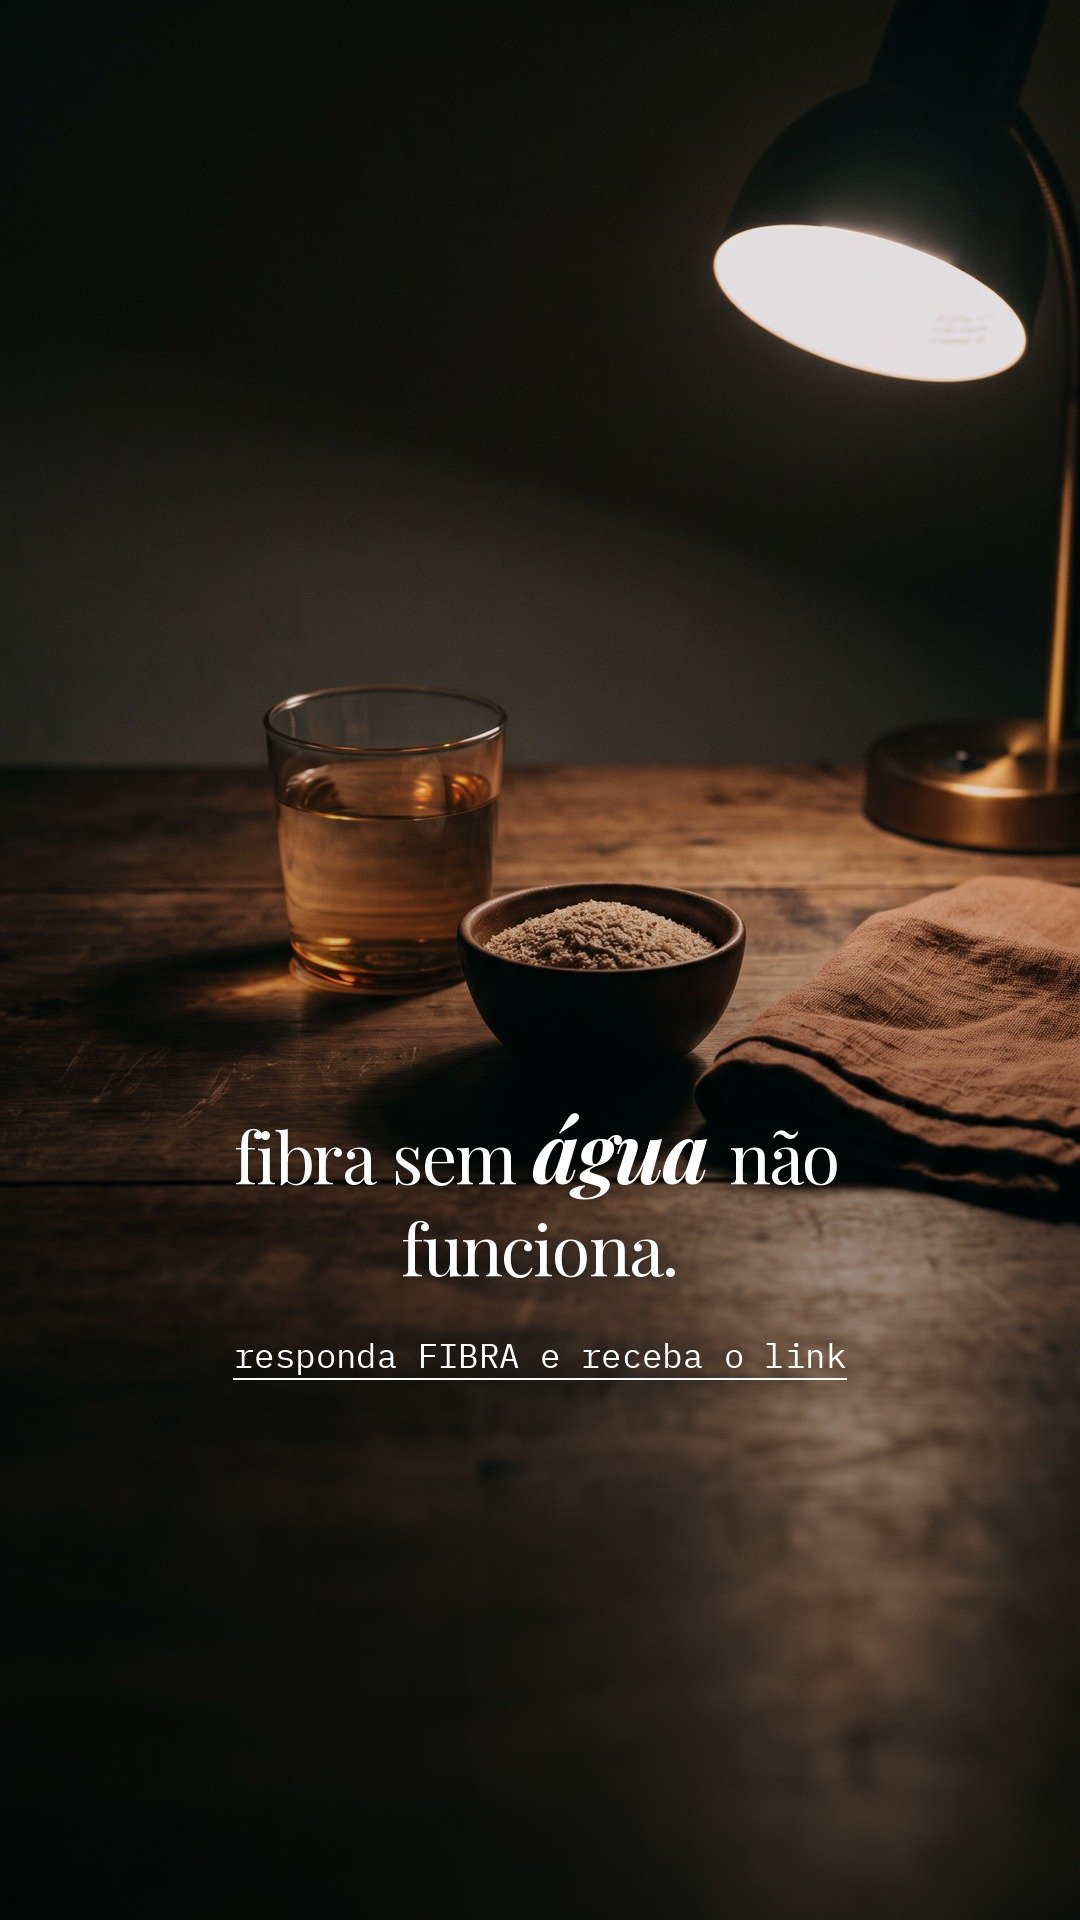
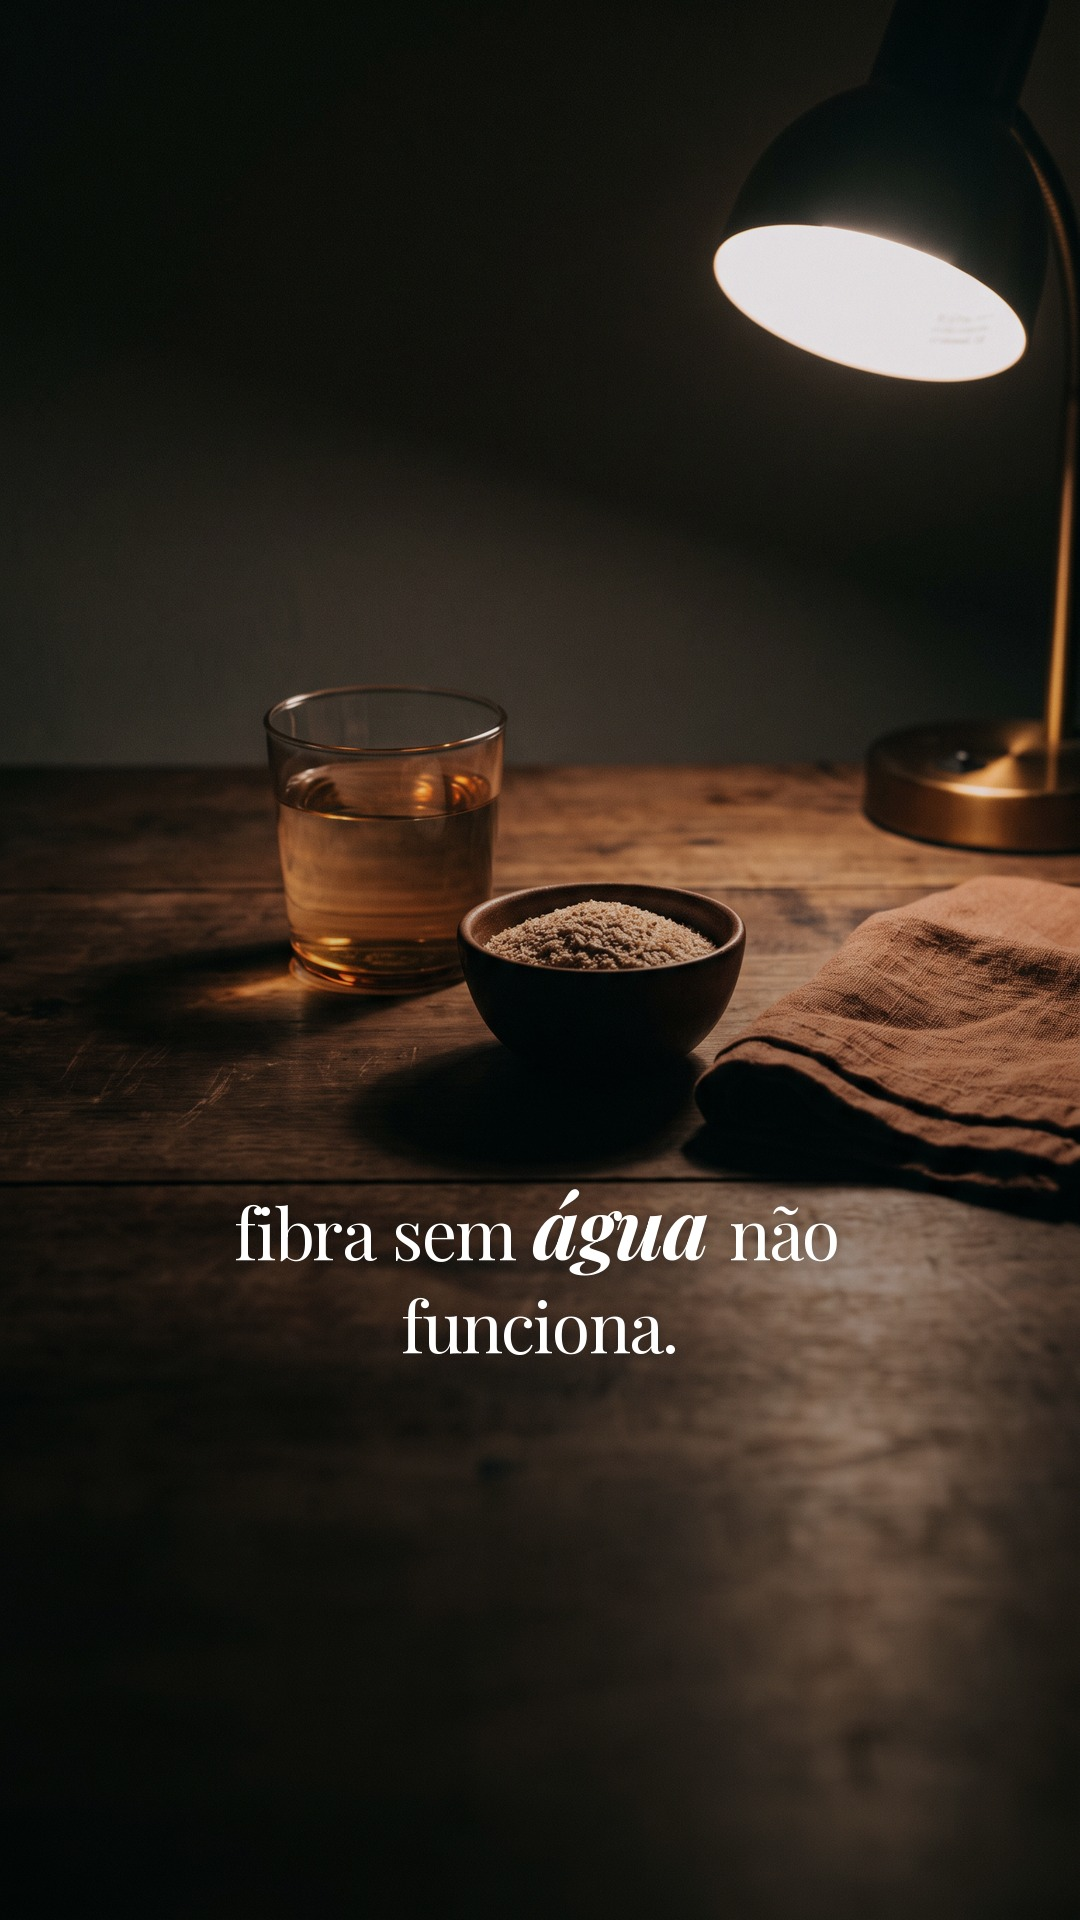
Um produto com link por dia, pódio e campeã no sábado, palavras breves
- banco: trocas sáb/dom (14/15, 21/22, 28/29) e 1 palavra-chave por dia
- artes 13-20/11 sem chamada fora do produto do dia; SAW no saw palmetto
- LISTA, BRIEFING e doc 13 com as regras

Claude-Session: https://claude.ai/code/session_01Bm6rABw341qEUcQn2o9EUx

Changed region(s): [[0.2139, 0.5938, 0.7944, 0.7188], [0.6722, 0.6875, 0.7944, 0.7188]]

diff --git a/grade/pacotes/2026-11-13a20/render.py b/grade/pacotes/2026-11-13a20/render.py
@@ -5,7 +5,9 @@ from pathlib import Path
 S = sys.argv[1]; G = Path(__file__).resolve().parents[2]; P = Path(__file__).resolve().parent
 CN, AA, PD = G/"campanha-nov", G/"ativos-animados", G/"podio"
 run = lambda *a: subprocess.run(["python3", "-I", *map(str, a)], check=True, cwd=CN)
-c = lambda k: f"responda {k} e receba o link"
+# 1 produto com link por dia (decisão de 12/11/2026); os outros stories saem sem chamada
+DIA = {"CAFE", "B12", "CANELA", "MAGNESIO", "VITC", "SAW", "MOROSIL", "LICOPENO"}
+c = lambda k: f"responda {k} e receba o link" if k in DIA else ""
 D13 = CN/"dia13"; F = f"{S}/fotos1420"
 A = {(a["data"], a["hora"]): a for a in json.load(open(CN/"stories_14a30_v2.json"))}
 nome = lambda d, h, t: P/f"{d[8:]}-11_{h.replace(':', 'h')}_{t}.jpg"
@@ -17,11 +19,12 @@ for (d, h), (t, f, y, k) in {("2026-11-14", "12:30"): ("canela", "canela", "", "
         ("2026-11-16", "12:30"): ("caibra-magnesio", "caibra", "", "MAGNESIO"), ("2026-11-18", "12:30"): ("hibisco", "hibisco", "0.70", "HIBISCO"),
         ("2026-11-19", "12:30"): ("maca", "maca", "", "MACA"), ("2026-11-20", "09:00"): ("licopeno", "licopeno", "", "LICOPENO")}.items():
     run("arte.py", f"{F}/{f}.png", "story", nome(d, h, t), A[(d, h)]["legenda"], y, c(k))
+    # (a canela foi para dom 15/11 11:00: o arquivo é renomeado abaixo)
 run("modelos.py", "F", "story", P/"17-11_16h00_vitamina-c.jpg", "vitamina C: mais nem sempre é *melhor*.", "VITAMINA C", "", c("VITC"))
 for d, h, t, k in [("2026-11-15", "12:30", "berberina", "BERBERINA"), ("2026-11-15", "16:00", "probioticos", "PROBIOTICO"), ("2026-11-16", "16:00", "colageno", "COLAGENO"),
-                   ("2026-11-18", "09:00", "saw-palmetto", "PALMETTO"), ("2026-11-18", "16:00", "zinco-cabelo", "ZINCO"), ("2026-11-20", "12:30", "kic", "KIC"), ("2026-11-20", "16:00", "vitamina-b12", "B12")]:
+                   ("2026-11-18", "09:00", "saw-palmetto", "SAW"), ("2026-11-18", "16:00", "zinco-cabelo", "ZINCO"), ("2026-11-20", "12:30", "kic", "KIC"), ("2026-11-20", "16:00", "vitamina-b12", "")]:
     a = A[(d, h)]; run("modelos.py", a["modelo"], "story", nome(d, h, t), a["legenda"], a.get("rotulo", ""), "", c(k))
-run("modelos.py", "F", "story", P/"15-11_11h00_campea-podio-b12.jpg", "a campeã do pódio tem nome: vitamina *B12*.", "PÓDIO · NUTRACÊUTICOS", "", c("B12"))
+run("modelos.py", "F", "story", P/"14-11_12h30_campea-podio-b12.jpg", "a campeã do pódio tem nome: vitamina *B12*.", "PÓDIO · NUTRACÊUTICOS", "", c("B12"))
 for v, saida, fr, rot, k in [("morosil2", "morosil", "a laranja que *sangra* vermelho tem nome: moro.", "MOROSIL", "MOROSIL"),
                              ("elibria-runway", "elibria", "o *calor* que começa por dentro.", "ELIBRIA", ""),
                              ("treonato-runway", "magnesio-treonato", "o magnésio que chega ao *cérebro*.", "MAGNÉSIO TREONATO", "")]:
@@ -32,4 +35,5 @@ for s, cat, n, q in [("podio-nutraceuticos", "Nutracêuticos", ["vitamina B12", 
                      ("podio-pele-beleza", "Pele e beleza", ["niacinamida", "Clonapure", "ácido hialurônico"], ["10,0", "6,4", "5,5"])]:
     subprocess.run(["python3", "-I", "podio_video.py", f"{s}.mp4", cat, *n, *q], check=True, cwd=PD)
 shutil.copy(PD/"podio-nutraceuticos.mp4", P/"14-11_11h00_podio-nutraceuticos.mp4")
+shutil.move(P/"14-11_12h30_canela.jpg", P/"15-11_11h00_canela.jpg")
 print("ok")

diff --git a/grade/pacotes/2026-11-13a20/LISTA.md b/grade/pacotes/2026-11-13a20/LISTA.md
@@ -1,36 +1,29 @@
-# Pacote 13 a 20/11/2026 · stories com palavra-chave (ManyChat)
+# Pacote 13 a 20/11/2026 · stories (produto do dia + ManyChat)
 
-**Mudou em 12/11/2026:** não há mais adesivo de link nem agendamento à mão no Business Suite para as imagens.
-- A arte pede "responda PALAVRA e receba o link". Quem responde o story recebe o link por direct pelo **ManyChat**, que consulta `ig_link_por_palavra` no Supabase (só responde para blocos aprovados ou publicados).
-- **Palavra-chave breve, sem acento nem caractere especial** (ex.: CAFE, VITC), para facilitar a digitação. A busca também aceita com acento.
-- **Story sem logo** (decisão do Ricardo, 12/11): o Instagram já mostra a foto e @medicinalnaweb no topo. Feed continua com logo. Texto acima da barra de resposta.
-- **Imagens** saem pela automação da Grade quando o Ricardo aprova o bloco. **Vídeos** ainda são agendados à mão (a automação publica só imagem).
-- Artes e vídeos: arquivos desta pasta (prefixo `nov2026-v4-` no Supabase). Para refazer: `python3 -I render.py <pasta com fotos1420 e vídeos do Runway>`.
-- Configuração do ManyChat: `docs/13-portal-instagram.md`, seção "Link por direct (ManyChat)".
+**Regras (Ricardo, 12/11/2026)**
+- **1 produto com link por dia.** Só o story do produto do dia leva "responda PALAVRA e receba o link"; os outros 3 saem sem chamada, como conteúdo.
+- **Pódio sempre no sábado:** vídeo às 11:00 + campeã (produto do dia) às 12:30.
+- **Palavra-chave breve, sem acento nem caractere especial** (CAFE, VITC, SAW). A busca também aceita com acento.
+- **Story sem logo**: o Instagram já mostra @medicinalnaweb no topo. Feed continua com logo. Texto acima da barra de resposta.
+- O link vai por direct pelo **ManyChat** (`ig_link_por_palavra`, só blocos aprovados ou publicados), sempre para a **página do produto**, com UTM.
+- **Imagens** saem pela automação da Grade quando o Ricardo aprova. **Vídeos** ainda são agendados à mão.
+- Refazer as artes: `python3 -I render.py <pasta com fotos1420 e vídeos do Runway>`.
 
-| Data | Hora | Tipo | Story | Palavra-chave |
-|---|---|---|---|---|
-| 13/11 | 09:00 | imagem | Magnésio treonato | TREONATO ⛔ em espera (Anvisa) |
-| 13/11 | 12:30 | imagem | Café proteico | CAFE ✅ aprovado |
-| 13/11 | 16:00 | imagem | Biotina | BIOTINA |
-| 13/11 | 20:00 | imagem | Psyllium | FIBRA |
-| 14/11 | 11:00 | vídeo | Pódio · nutracêuticos | — |
-| 14/11 | 12:30 | imagem | Canela | CANELA |
-| 15/11 | 09:00 | imagem | Picolinato de cromo | CROMO |
-| 15/11 | 11:00 | imagem | Campeã do pódio · B12 | B12 |
-| 15/11 | 12:30 | imagem | Berberina | BERBERINA |
-| 15/11 | 16:00 | imagem | Probióticos por cepa | PROBIOTICO |
-| 16/11 | 12:30 | imagem | Cãibra e magnésio | MAGNESIO |
-| 16/11 | 16:00 | imagem | Colágeno tipo II | COLAGENO |
-| 17/11 | 11:00 | vídeo | Ativo animado · treonato | ⛔ em espera (Anvisa) |
-| 17/11 | 16:00 | imagem | Vitamina C (modelo F) | VITC |
-| 18/11 | 09:00 | imagem | Saw palmetto | PALMETTO |
-| 18/11 | 12:30 | imagem | Hibisco gelado | HIBISCO |
-| 18/11 | 16:00 | imagem | Zinco e cabelo | ZINCO |
-| 19/11 | 11:00 | vídeo | Ativo animado · Morosil | MOROSIL |
-| 19/11 | 12:30 | imagem | Maca peruana | MACA |
-| 20/11 | 09:00 | imagem | Licopeno | LICOPENO |
-| 20/11 | 12:30 | imagem | KIC | KIC |
-| 20/11 | 16:00 | imagem | Vitamina B12 | B12 |
+## Produto do dia
 
-`painel-pacote.jpg`: folha de contato com as faixas de área segura em vermelho.
+| Dia | Hora | Palavra | Story |
+|---|---|---|---|
+| 13 sex | 12:30 | CAFE | Café proteico (✅ aprovado) |
+| 14 sáb | 11:00 / 12:30 | B12 | Pódio Nutracêuticos + campeã B12 |
+| 15 dom | 11:00 | CANELA | Canela |
+| 16 seg | 12:30 | MAGNESIO | Cãibra e magnésio |
+| 17 ter | 16:00 | VITC | Vitamina C 500 mg |
+| 18 qua | 09:00 | SAW | Saw palmetto |
+| 19 qui | 11:00 | MOROSIL | Ativo animado Morosil (vídeo) |
+| 20 sex | 09:00 | LICOPENO | Licopeno |
+
+Treonato (13/11 09:00 e 17/11 11:00): **em espera** (alerta da Anvisa), sem palavra-chave.
+
+Semana seguinte (banco): 21 BIOTINA (campeã do pódio Cabelo, 12:30), 22 SALMAO, 23 TEANINA, 24 FERRO, 25 PROPOLIS, 26 Q10, 27 ALCA, 28 HIALU (pódio Pele e beleza, 12:30), 29 UNHAS, 30 PASSI.
+
+`painel-pacote.jpg`: folha de contato das artes de imagem.

diff --git a/docs/13-portal-instagram.md b/docs/13-portal-instagram.md
@@ -106,3 +106,4 @@ flowchart LR
 - Configuração feita pelo Claude no navegador do Ricardo, a partir do roteiro preparado nesta conversa (o roteiro tem a chave pública e fica fora do repositório). Automação criada pausada; o Ricardo liga depois do teste.
 - **Story sem logo** (12/11): o cabeçalho do Instagram já mostra @medicinalnaweb. `arte.py`, `modelos.py`, `ativo_animado.py` e `podio_video.py` só põem logo no feed.
 - **Link sempre na página do produto, com UTM** (decisão do Ricardo, 12/11): o direct leva à página do produto, para a pessoa ler o contexto do item. Desde 12/11, `ig_link_por_palavra` devolve o link com `utm_source=instagram&utm_medium=dm&utm_campaign=story-AAAA-MM&utm_content=<palavra>`. Isso mede as vendas por story e permite, no futuro, uma promoção na VTEX restrita a essa UTM (fluxo de Campanhas, criada pausada, só com OK do Ricardo). Como o desconto da VTEX aparece no carrinho, o direct precisará avisar isso quando houver promoção.
+- **1 produto com link por dia** (Ricardo, 12/11): só o story do produto do dia tem palavra-chave e chamada; os demais saem como conteúdo. **Pódio sempre no sábado** (vídeo 11:00 + campeã com link 12:30). **Palavras breves** (CAFE, VITC, SAW, ALCA, HIALU, PASSI). Tabela em `grade/pacotes/2026-11-13a20/LISTA.md`.

diff --git a/grade/campanha-nov/BRIEFING.md b/grade/campanha-nov/BRIEFING.md
@@ -62,3 +62,9 @@ Arquivo JSON (lista), um objeto por slot, com as chaves: `data`, `hora`, `canal`
   - `C` pergunta em **IBM Plex Mono sublinhada** + resposta curta em Playfair, sobre fundo **areia** ou **café** liso (sem foto).
   Por dia: no máximo 2 stories com foto (modelo A), e nunca dois modelos iguais seguidos. Marinho (E) no máximo 1 por dia.
 - Para `E`, `F` e `C`: `rotulo` (2 a 3 palavras em caixa alta, ex.: "MAGNÉSIO TREONATO") e, no `C`, `pergunta` (até 8 palavras, termina com "?").
+
+## Ajuste de 12/11/2026 (Ricardo)
+- 1 produto com link por dia; os outros stories sem chamada.
+- Pódio sempre aos sábados, com a campeã (produto do dia) logo depois, às 12:30.
+- Palavra-chave breve, sem acento nem caractere especial.
+- Story sem logo; feed com logo.
